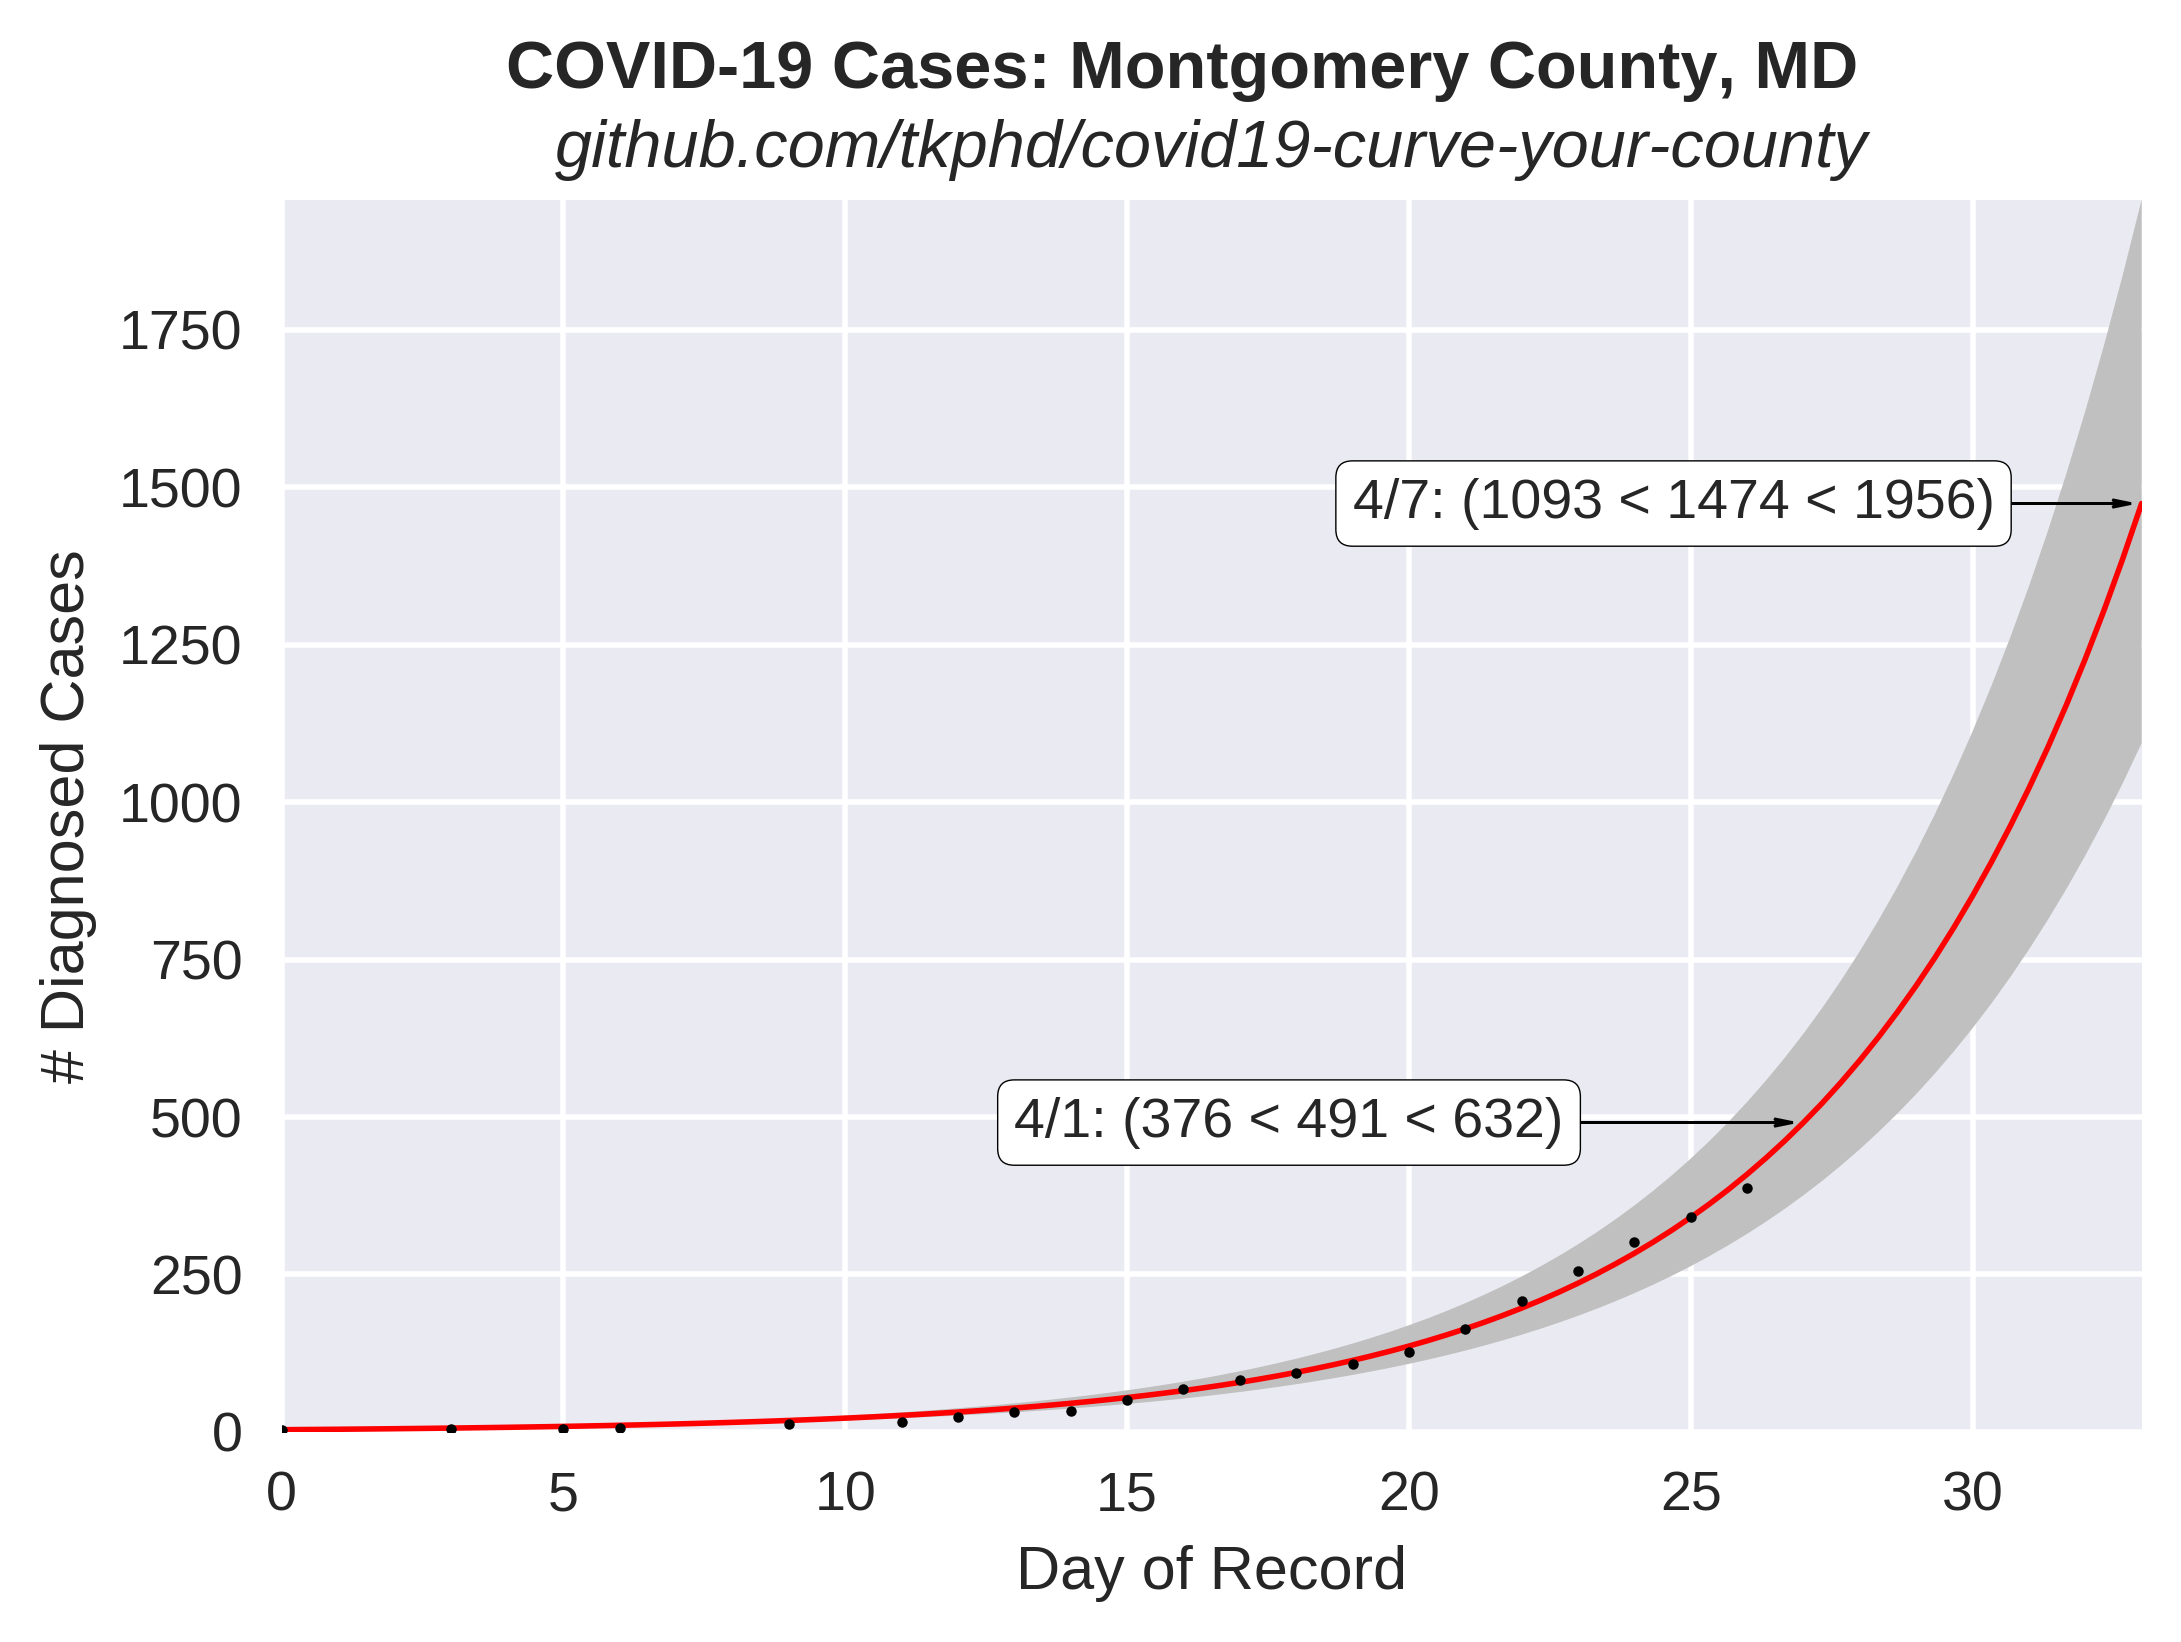
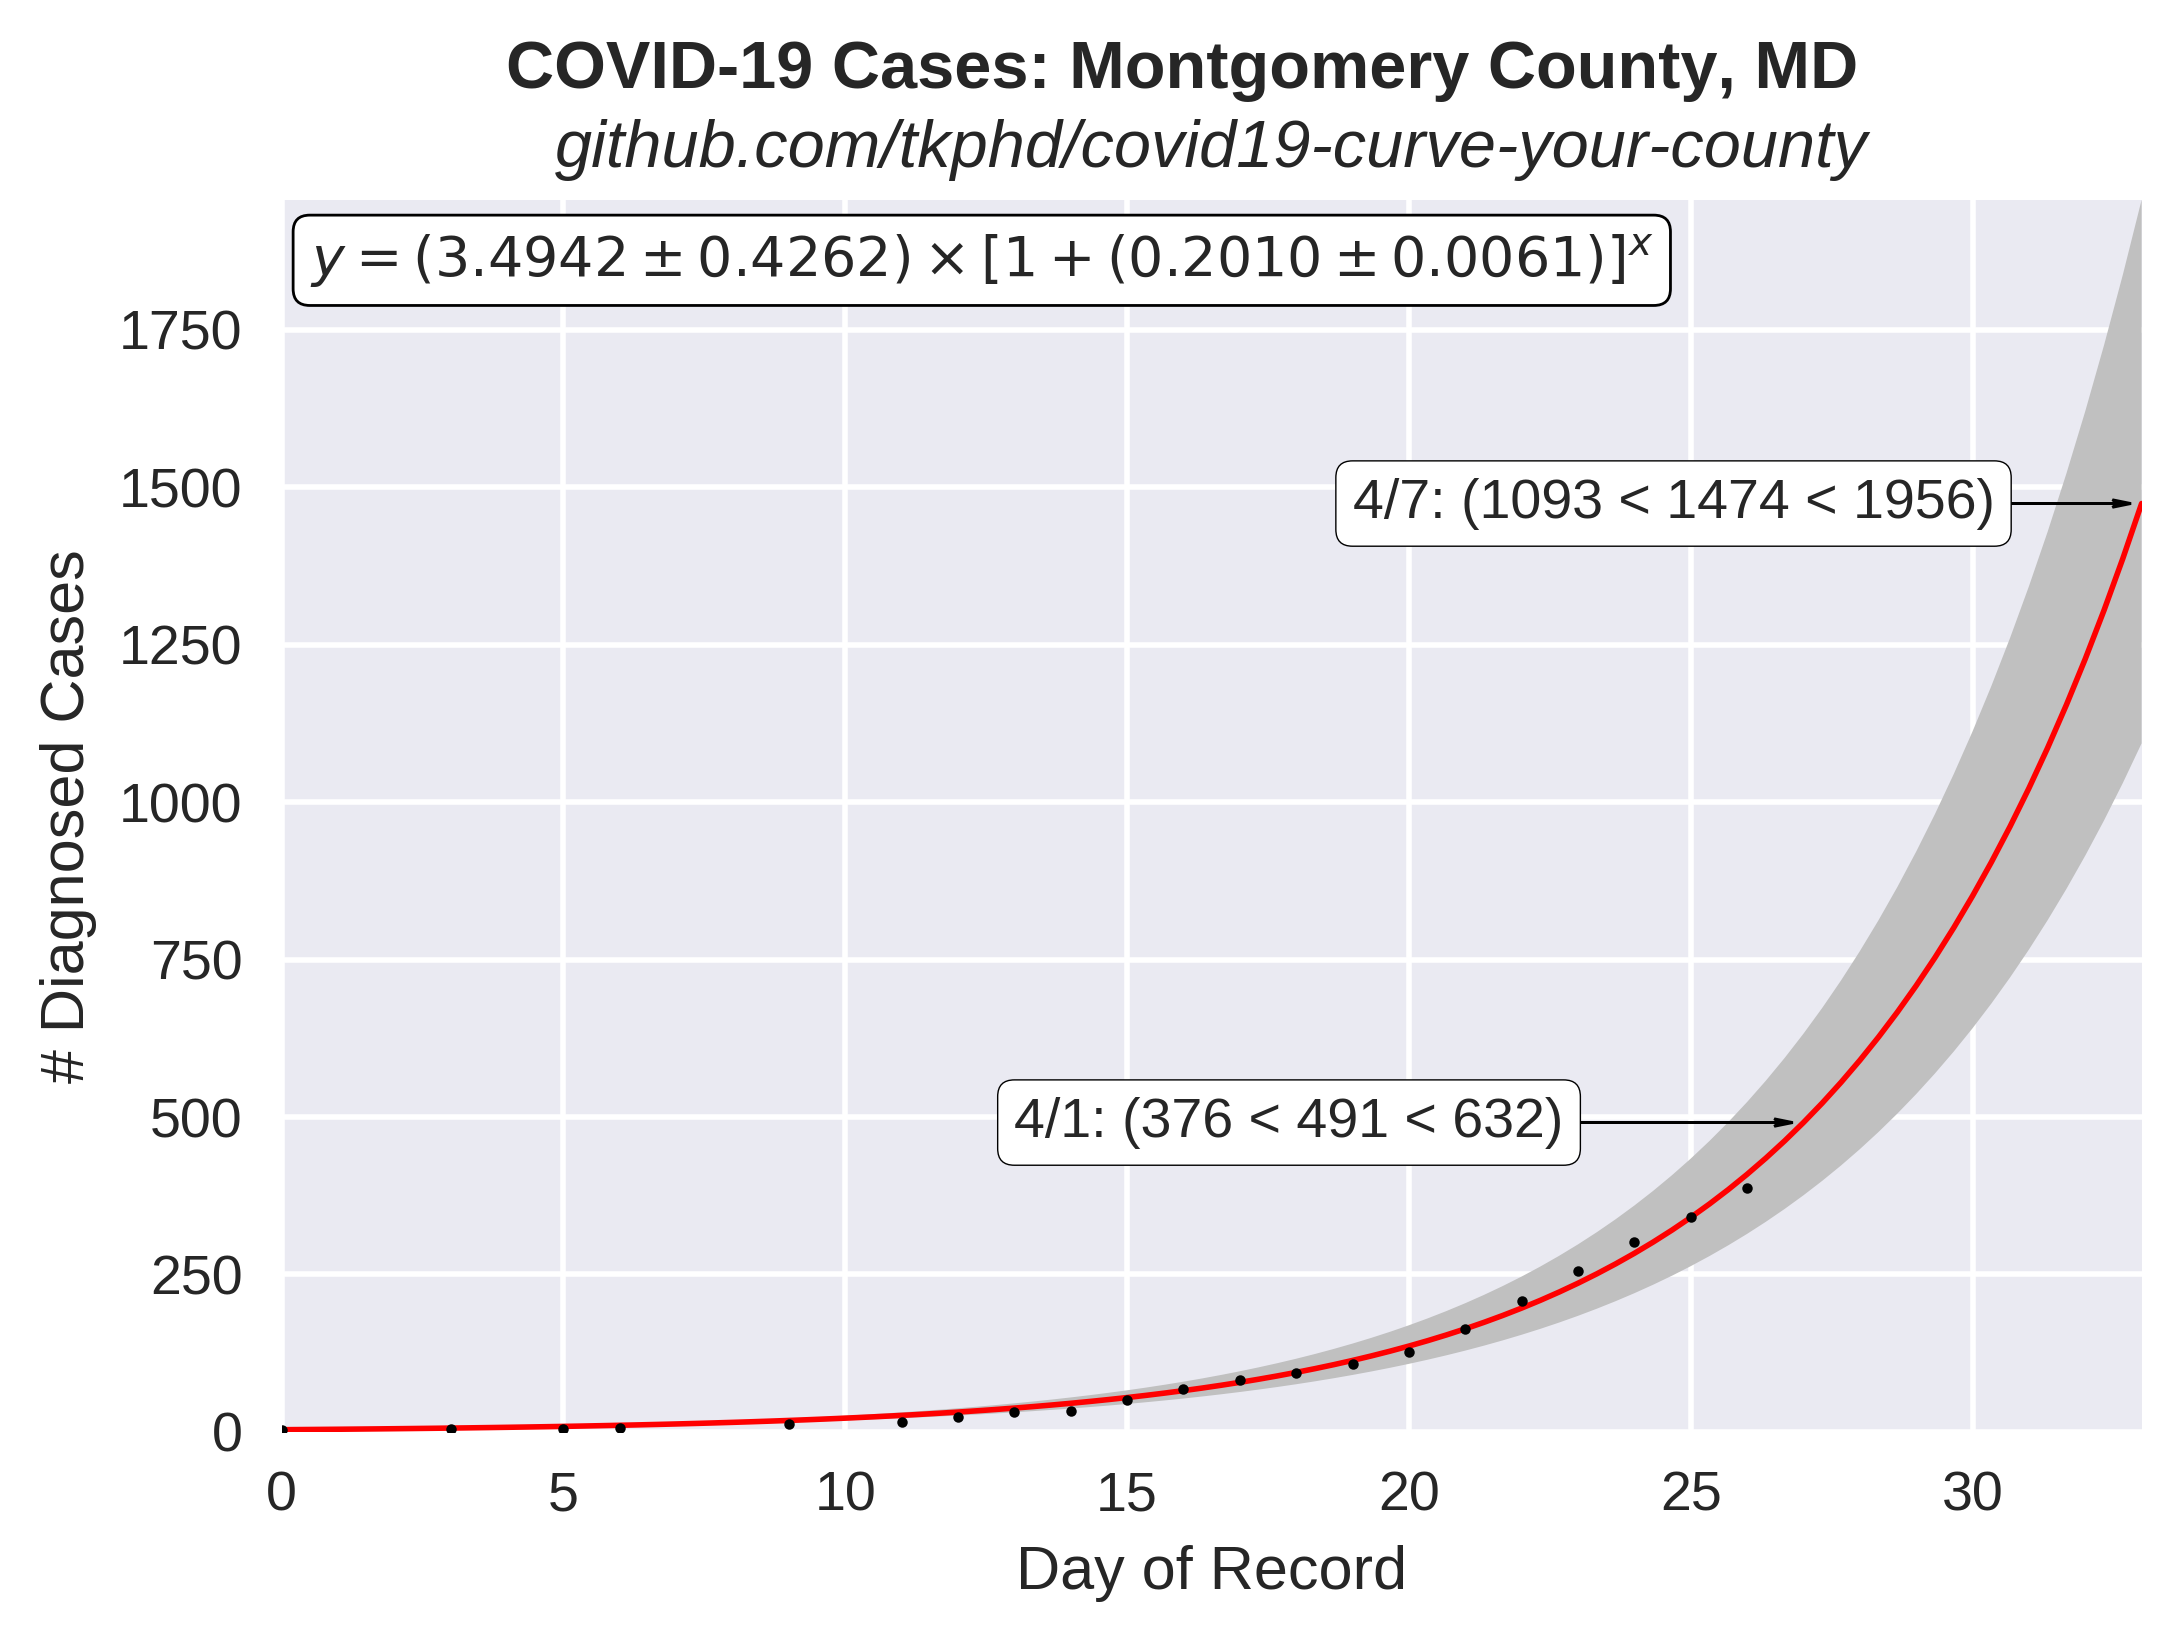
show equation on graph

Changed region(s): [[0.1247, 0.1242, 0.7795, 0.1864]]

diff --git a/exponential.py b/exponential.py
@@ -5,6 +5,7 @@ import numpy as np
 import pandas as pd
 from time import strptime
 from datetime import date
+from string import Template
 from scipy.optimize import curve_fit, least_squares
 from scipy.stats import describe, t
 from matplotlib import style
@@ -55,16 +56,15 @@ perr = np.sqrt(np.diag(pcov))
 coef = describe(pcov)
 a, b = popt
 
-print("cases ~ {0:.3g} * (1 + {1:.3g})^t".format(a, b))
-
 # Confidence Band: dfdp represents the partial derivatives of the model with respect to each parameter p (i.e., a and b)
 
 xhat = np.linspace(0, x[-1] + 7, 100)
 yhat = model(xhat, a, b)
 
 upr_a = a + perr[0]
-upr_b = b + perr[1]
 lwr_a = a - perr[0]
+
+upr_b = b + perr[1]
 lwr_b = b - perr[1]
 
 upper = model(xhat, upr_a, upr_b)
@@ -93,6 +93,13 @@ yhat = model(xhat, a, b)
 upper = model(xhat, upr_a, upr_b)
 lower = model(xhat, lwr_a, lwr_b)
 
+
+plt.text(0.5, (yhat[1] + 3 * upper[1]) / 4,
+         r"$y = ({0:.4f} \pm {2:.4f}) \times [1 + ({1:.4f} \pm {3:.4f})]^x$".format(a, b, perr[0], perr[1]),
+         zorder=5,
+         bbox=dict(boxstyle="round", ec="black", fc="white", linewidth=2*dx)
+)
+
 plt.text(
     xhat[0] - dt,
     yhat[0],
@@ -101,7 +108,7 @@ plt.text(
     ),
     va="center",
     zorder=5,
-    bbox=dict(boxstyle="round", ec="black", fc="white", linewidth=dx),
+    bbox=dict(boxstyle="round", ec="black", fc="white", linewidth=dx)
 )
 plt.text(
     xhat[1] - dt,
@@ -111,7 +118,7 @@ plt.text(
     ),
     va="center",
     zorder=5,
-    bbox=dict(boxstyle="round", ec="black", fc="white", linewidth=dx),
+    bbox=dict(boxstyle="round", ec="black", fc="white", linewidth=dx)
 )
 
 hw = 12
